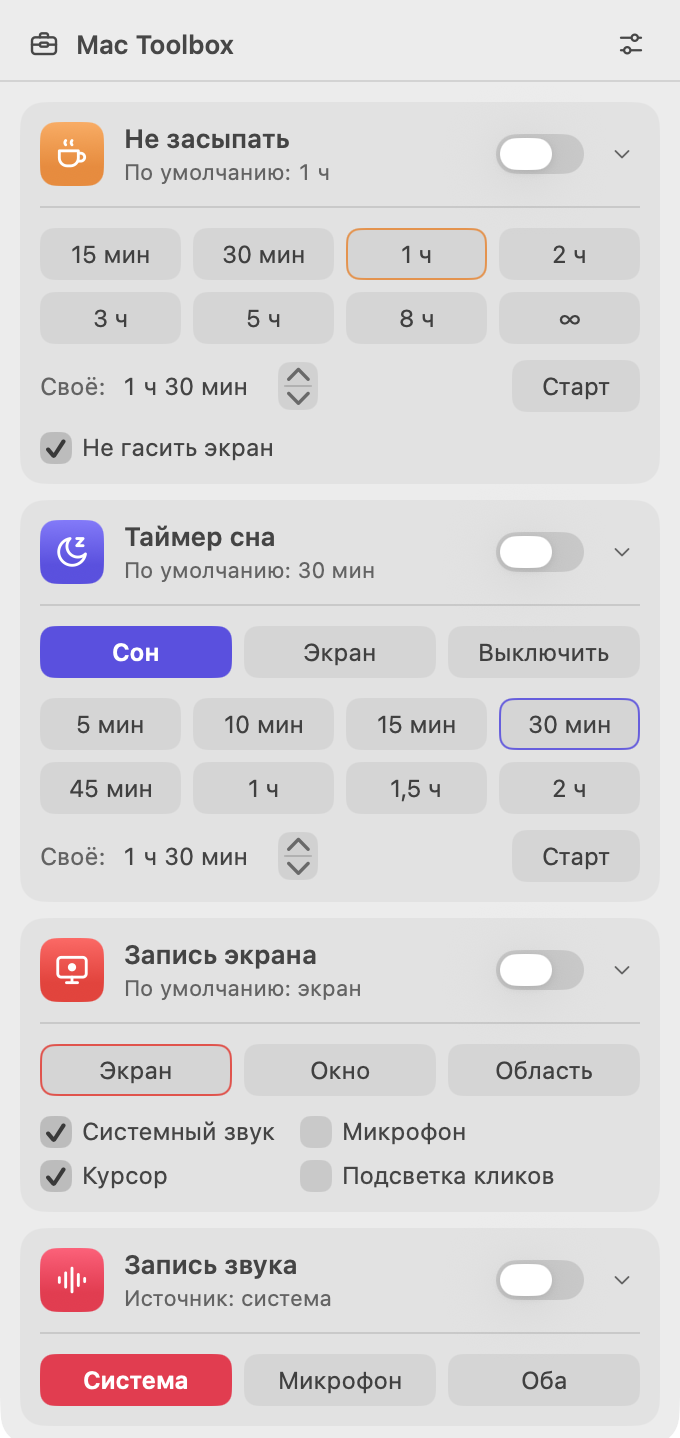
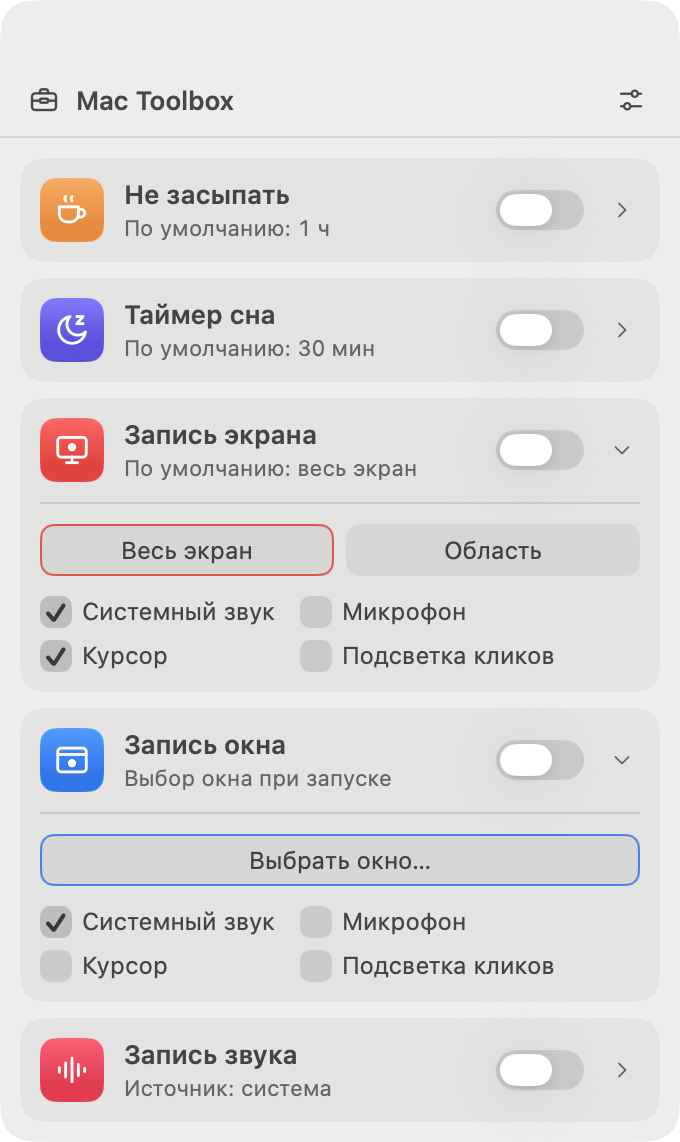
Split window recording into a separate tool
Screen Recording now offers full screen and area; Window Recording is its own
card with separate settings. Both share ScreenRecorder and only one recording
can run at a time.

diff --git a/MacToolbox/Tools/ScreenRecorder/ScreenRecorderView.swift b/MacToolbox/Tools/ScreenRecorder/ScreenRecorderView.swift
@@ -1,7 +1,8 @@
 import SwiftUI
 
+/// «Запись экрана»: весь экран или выделенная область.
 struct ScreenRecorderView: View {
-    @Bindable private var model = ScreenRecorder.shared
+    private let model = ScreenRecorder.screen
     @AppStorage("ui.expanded.screenRecorder") private var isExpanded = false
 
     private let tint = Color.red
@@ -11,53 +12,97 @@ struct ScreenRecorderView: View {
             icon: "screen-record",
             tint: tint,
             title: "Запись экрана",
-            status: status,
+            status: RecorderStatus.text(for: model) {
+                "По умолчанию: \(model.mode.title.lowercased())"
+            },
             isActive: model.isActive,
+            isToggleEnabled: !model.isBlocked,
             onToggle: { model.toggle() },
             isExpanded: $isExpanded
         ) {
             VStack(alignment: .leading, spacing: 10) {
                 HStack(spacing: 6) {
-                    ForEach(CaptureMode.allCases) { mode in
+                    ForEach(CaptureMode.screenModes) { mode in
                         Button(mode.title) { model.start(mode: mode) }
                             .buttonStyle(ChipStyle(
                                 tint: tint,
                                 isActive: model.isActive && model.mode == mode,
                                 isDefault: model.mode == mode
                             ))
-                            .disabled(model.isActive)
+                            .disabled(model.isActive || model.isBlocked)
                     }
                 }
-
-                Grid(alignment: .leading, horizontalSpacing: 12, verticalSpacing: 6) {
-                    GridRow {
-                        Toggle("Системный звук", isOn: $model.systemAudio)
-                        Toggle("Микрофон", isOn: $model.microphone)
-                    }
-                    GridRow {
-                        Toggle("Курсор", isOn: $model.showCursor)
-                        Toggle("Подсветка кликов", isOn: $model.showClicks)
-                    }
-                }
-                .toggleStyle(.checkbox)
-                .disabled(model.isActive)
-
-                RecordingFooter(
-                    errorMessage: model.errorMessage,
-                    lastRecording: model.lastRecording,
-                    openSettings: Permissions.openScreenRecordingSettings,
-                    reveal: model.revealLastRecording
-                )
+                RecorderOptions(model: model)
             }
             .font(.system(size: 12))
         }
     }
+}
 
-    private var status: String {
+/// «Запись окна»: окно или приложение через системный пикер.
+struct WindowRecorderView: View {
+    private let model = ScreenRecorder.window
+    @AppStorage("ui.expanded.windowRecorder") private var isExpanded = false
+
+    private let tint = Color.blue
+
+    var body: some View {
+        ToolCard(
+            icon: "window-record",
+            tint: tint,
+            title: "Запись окна",
+            status: RecorderStatus.text(for: model) { "Выбор окна при запуске" },
+            isActive: model.isActive,
+            isToggleEnabled: !model.isBlocked,
+            onToggle: { model.toggle() },
+            isExpanded: $isExpanded
+        ) {
+            VStack(alignment: .leading, spacing: 10) {
+                Button("Выбрать окно…") { model.start(mode: .window) }
+                    .buttonStyle(ChipStyle(tint: tint, isActive: model.isActive, isDefault: true))
+                    .disabled(model.isActive || model.isBlocked)
+                RecorderOptions(model: model)
+            }
+            .font(.system(size: 12))
+        }
+    }
+}
+
+/// Общие настройки записи: звук, курсор, клики + ошибка и последняя запись.
+private struct RecorderOptions: View {
+    @Bindable var model: ScreenRecorder
+
+    var body: some View {
+        Grid(alignment: .leading, horizontalSpacing: 12, verticalSpacing: 6) {
+            GridRow {
+                Toggle("Системный звук", isOn: $model.systemAudio)
+                Toggle("Микрофон", isOn: $model.microphone)
+            }
+            GridRow {
+                Toggle("Курсор", isOn: $model.showCursor)
+                Toggle("Подсветка кликов", isOn: $model.showClicks)
+            }
+        }
+        .toggleStyle(.checkbox)
+        .disabled(model.isActive)
+
+        RecordingFooter(
+            errorMessage: model.errorMessage,
+            lastRecording: model.lastRecording,
+            openSettings: Permissions.openScreenRecordingSettings,
+            reveal: model.revealLastRecording
+        )
+    }
+}
+
+private enum RecorderStatus {
+    @MainActor
+    static func text(for model: ScreenRecorder, idle: () -> String) -> String {
         switch model.phase {
         case .idle:
             if model.errorMessage != nil { return "Ошибка — подробности ниже" }
-            return "По умолчанию: \(model.mode.title.lowercased())"
+            if model.isBlocked { return "Идёт другая запись" }
+            return idle()
         case .preparing:
             return "Подготовка…"
         case .recording:

diff --git a/MacToolbox/Tools/ScreenRecorder/ScreenRecorder.swift b/MacToolbox/Tools/ScreenRecorder/ScreenRecorder.swift
@@ -7,9 +7,12 @@ enum CaptureMode: String, CaseIterable, Identifiable {
 
     var id: Self { self }
 
+    /// Режимы карточки «Запись экрана»; окно — отдельный инструмент.
+    static let screenModes: [CaptureMode] = [.display, .area]
+
     var title: String {
         switch self {
-        case .display: "Экран"
+        case .display: "Весь экран"
         case .window: "Окно"
         case .area: "Область"
         }
@@ -19,7 +22,14 @@ enum CaptureMode: String, CaseIterable, Identifiable {
 @MainActor
 @Observable
 final class ScreenRecorder {
-    static let shared = ScreenRecorder()
+    /// Два инструмента на одном движке: «Запись экрана» (весь экран / область) и «Запись окна».
+    enum Kind { case screen, window }
+
+    static let screen = ScreenRecorder(kind: .screen)
+    static let window = ScreenRecorder(kind: .window)
+    static var all: [ScreenRecorder] { [screen, window] }
+
+    let kind: Kind
 
     enum Phase: Equatable { case idle, preparing, recording, saving }
 
@@ -30,34 +40,47 @@ final class ScreenRecorder {
     private(set) var errorMessage: String?
 
     /// Последний режим — используется по клику на переключатель.
-    var mode: CaptureMode { didSet { defaults.set(mode.rawValue, forKey: Keys.mode) } }
-    var systemAudio: Bool { didSet { defaults.set(systemAudio, forKey: Keys.systemAudio) } }
-    var microphone: Bool { didSet { defaults.set(microphone, forKey: Keys.microphone) } }
-    var showCursor: Bool { didSet { defaults.set(showCursor, forKey: Keys.showCursor) } }
-    var showClicks: Bool { didSet { defaults.set(showClicks, forKey: Keys.showClicks) } }
+    var mode: CaptureMode { didSet { defaults.set(mode.rawValue, forKey: key("mode")) } }
+    var systemAudio: Bool { didSet { defaults.set(systemAudio, forKey: key("systemAudio")) } }
+    var microphone: Bool { didSet { defaults.set(microphone, forKey: key("microphone")) } }
+    var showCursor: Bool { didSet { defaults.set(showCursor, forKey: key("showCursor")) } }
+    var showClicks: Bool { didSet { defaults.set(showClicks, forKey: key("showClicks")) } }
 
     var isActive: Bool { phase != .idle }
+
+    /// Запись идёт в другом инструменте — одновременно пишем только что-то одно.
+    var isBlocked: Bool {
+        Self.all.contains { $0 !== self && $0.isActive }
+    }
     var elapsed: TimeInterval? { startDate.map { now.timeIntervalSince($0) } }
 
     @ObservationIgnored private var session: ScreenCaptureSession?
     @ObservationIgnored private let ticker = Ticker()
     @ObservationIgnored private let defaults = UserDefaults.standard
 
-    private enum Keys {
-        static let mode = "screenRecorder.mode"
-        static let systemAudio = "screenRecorder.systemAudio"
-        static let microphone = "screenRecorder.microphone"
-        static let showCursor = "screenRecorder.showCursor"
-        static let showClicks = "screenRecorder.showClicks"
+    private var defaultsPrefix: String { Self.defaultsPrefix(kind) }
+
+    private static func defaultsPrefix(_ kind: Kind) -> String {
+        kind == .screen ? "screenRecorder" : "windowRecorder"
     }
 
-    init() {
+    private func key(_ name: String) -> String { "\(defaultsPrefix).\(name)" }
+
+    init(kind: Kind) {
+        self.kind = kind
         let d = UserDefaults.standard
-        mode = d.string(forKey: Keys.mode).flatMap(CaptureMode.init(rawValue:)) ?? .display
-        systemAudio = d.object(forKey: Keys.systemAudio) as? Bool ?? true
-        microphone = d.object(forKey: Keys.microphone) as? Bool ?? false
-        showCursor = d.object(forKey: Keys.showCursor) as? Bool ?? true
-        showClicks = d.object(forKey: Keys.showClicks) as? Bool ?? false
+        let prefix = Self.defaultsPrefix(kind)
+        switch kind {
+        case .screen:
+            let stored = d.string(forKey: "\(prefix).mode").flatMap(CaptureMode.init(rawValue:))
+            mode = stored.flatMap { CaptureMode.screenModes.contains($0) ? $0 : nil } ?? .display
+        case .window:
+            mode = .window
+        }
+        systemAudio = d.object(forKey: "\(prefix).systemAudio") as? Bool ?? true
+        microphone = d.object(forKey: "\(prefix).microphone") as? Bool ?? false
+        showCursor = d.object(forKey: "\(prefix).showCursor") as? Bool ?? (kind == .screen)
+        showClicks = d.object(forKey: "\(prefix).showClicks") as? Bool ?? false
     }
 
     func toggle() {
@@ -65,7 +88,7 @@ final class ScreenRecorder {
     }
 
     func start(mode: CaptureMode) {
-        guard phase == .idle else { return }
+        guard phase == .idle, !isBlocked else { return }
         self.mode = mode
         errorMessage = nil
         phase = .preparing
@@ -101,7 +124,7 @@ final class ScreenRecorder {
                 return
             }
 
-            let url = Recordings.newVideoURL()
+            let url = Recordings.newVideoURL(prefix: kind == .window ? "Запись окна" : "Запись экрана")
             let session = try ScreenCaptureSession(
                 filter: target.filter,
                 configuration: configuration(for: target),

diff --git a/MacToolbox/UI/MenuBarLabel.swift b/MacToolbox/UI/MenuBarLabel.swift
@@ -5,7 +5,6 @@ import SwiftUI
 struct MenuBarLabel: View {
     private let preventSleep = PreventSleep.shared
     private let sleepTimer = SleepTimer.shared
-    private let screenRecorder = ScreenRecorder.shared
     private let audioRecorder = AudioRecorder.shared
     @AppStorage("ui.showCountdown") private var showCountdown = true
 
@@ -21,8 +20,8 @@ struct MenuBarLabel: View {
     }
 
     private var state: (String, TimeInterval?) {
-        if screenRecorder.phase == .recording {
-            return ("record", screenRecorder.elapsed)
+        if let recorder = ScreenRecorder.all.first(where: { $0.phase == .recording }) {
+            return ("record", recorder.elapsed)
         }
         if audioRecorder.phase == .recording {
             return ("record", audioRecorder.elapsed)

diff --git a/MacToolbox/UI/ToolCard.swift b/MacToolbox/UI/ToolCard.swift
@@ -8,6 +8,7 @@ struct ToolCard<Detail: View>: View {
     let title: String
     let status: String
     let isActive: Bool
+    var isToggleEnabled = true
     let onToggle: @MainActor () -> Void
     @Binding var isExpanded: Bool
     @ViewBuilder let detail: () -> Detail
@@ -35,6 +36,7 @@ struct ToolCard<Detail: View>: View {
                     .labelsHidden()
                     .controlSize(.small)
                     .tint(tint)
+                    .disabled(!isToggleEnabled)
 
                 SVGImage("chevron", size: 12)
                     .foregroundStyle(.secondary)

diff --git a/MacToolbox/Core/Recordings.swift b/MacToolbox/Core/Recordings.swift
@@ -5,8 +5,8 @@ enum Recordings {
     static var videoFolder: URL { folder(in: .moviesDirectory) }
     static var audioFolder: URL { folder(in: .musicDirectory) }
 
-    static func newVideoURL() -> URL {
-        videoFolder.appendingPathComponent("Запись экрана \(timestamp()).mov")
+    static func newVideoURL(prefix: String) -> URL {
+        videoFolder.appendingPathComponent("\(prefix) \(timestamp()).mov")
     }
 
     static func newAudioURL() -> URL {

diff --git a/MacToolbox/UI/RootView.swift b/MacToolbox/UI/RootView.swift
@@ -19,6 +19,7 @@ struct RootView: View {
                 PreventSleepView()
                 SleepTimerView()
                 ScreenRecorderView()
+                WindowRecorderView()
                 AudioRecorderView()
             }
             .padding(10)

diff --git a/README.md b/README.md
@@ -19,13 +19,15 @@
 |---|---|---|
 | ☕ | **Не засыпать** | Не даёт Mac уснуть (и, по желанию, погасить экран) на 15 мин … 8 ч, бессрочно или на своё время. |
 | 🌙 | **Таймер сна** | Через заданное время отправляет Mac в сон, гасит экран или выключает его. Отсчёт можно продлить на +5/15/30 мин. |
-| 🖥 | **Запись экрана** | Пишет весь экран, отдельное окно/приложение или выделенную область в HEVC `.mov` — с системным звуком, микрофоном, курсором и подсветкой кликов. |
+| 🖥 | **Запись экрана** | Пишет весь экран или выделенную область в HEVC `.mov` — с системным звуком, микрофоном, курсором и подсветкой кликов. |
+| 🪟 | **Запись окна** | Пишет одно окно или приложение целиком (выбирается системным пикером macOS) с теми же опциями. |
 | 🎙 | **Запись звука** | Пишет системный звук, микрофон или оба сразу (сведённые в одну дорожку) в AAC `.m4a`. |
 
 ### Как этим пользоваться
 
 - **Переключатель** на карточке запускает инструмент с *последними* настройками: последней длительностью, последним режимом записи.
 - **Клик по карточке** разворачивает её. Там выбирается точная длительность, режим или источник, и выбор сразу запускает инструмент. Значение по умолчанию обведено, активное залито.
+- Одновременно идёт только одна запись: пока пишет «Запись экрана», переключатель «Записи окна» недоступен, и наоборот.
 - **Иконка в меню-баре** показывает, что сейчас работает: ящик — ничего, чашка — «Не засыпать», луна — таймер сна, кружок — идёт запись. Рядом виден обратный отсчёт или время записи (отключается в настройках ⚙).
 - **Запись области:** протяните мышью по экрану; Esc или правый клик — отмена.
 - **Запись окна:** откроется системный пикер macOS — кликните по нужному окну.

diff --git a/docs/ARCHITECTURE.md b/docs/ARCHITECTURE.md
@@ -17,7 +17,7 @@ MacToolbox/
 ├── Tools/
 │   ├── PreventSleep/            IOPMAssertion
 │   ├── SleepTimer/              pmset / AppleScript
-│   ├── ScreenRecorder/          SCStream + SCRecordingOutput, выбор области и окна
+│   ├── ScreenRecorder/          «Запись экрана» и «Запись окна»: SCStream + SCRecordingOutput
 │   └── AudioRecorder/           SCStream (audio-only) → .caf → сведение в .m4a
 ├── UI/
 │   ├── RootView.swift           шапка, меню настроек, список карточек
@@ -88,9 +88,14 @@ MacToolbox/
 `ProcessInfo.beginActivity(.userInitiatedAllowingIdleSystemSleep)`: так App Nap не
 включается, а система при этом может уснуть по простою.
 
-### Запись экрана
-- **Экран** — дисплей под курсором; окна самого Mac Toolbox исключаются из фильтра.
-- **Окно** — системный `SCContentSharingPicker` (окно или приложение целиком).
+### Запись экрана и запись окна
+Это два инструмента на одной модели: `ScreenRecorder.screen` и `ScreenRecorder.window`
+(`ScreenRecorder.Kind`). Настройки у них раздельные (префиксы `screenRecorder.*` и
+`windowRecorder.*` в `UserDefaults`), а `isBlocked` не даёт запустить вторую запись,
+пока идёт первая.
+
+- **Весь экран** — дисплей под курсором; окна самого Mac Toolbox исключаются из фильтра.
+- **Окно** (отдельная карточка) — системный `SCContentSharingPicker` (окно или приложение целиком).
 - **Область** — `AreaSelector`: прозрачное окно уровня `.screenSaver` поверх экрана,
   выделение через `DragGesture`. Прямоугольник уходит в `SCStreamConfiguration.sourceRect`.
 

diff --git a/CHANGELOG.md b/CHANGELOG.md
@@ -1,5 +1,11 @@
 # История изменений
 
+## Не выпущено
+
+- «Запись окна» выделена в отдельный инструмент со своими настройками; в «Записи экрана» остались режимы «Весь экран» и «Область».
+- Одновременно может идти только одна запись экрана или окна.
+- Файлы записи окна называются «Запись окна …».
+
 ## 0.1.0 — 2026-10-19
 
 Первая версия.
